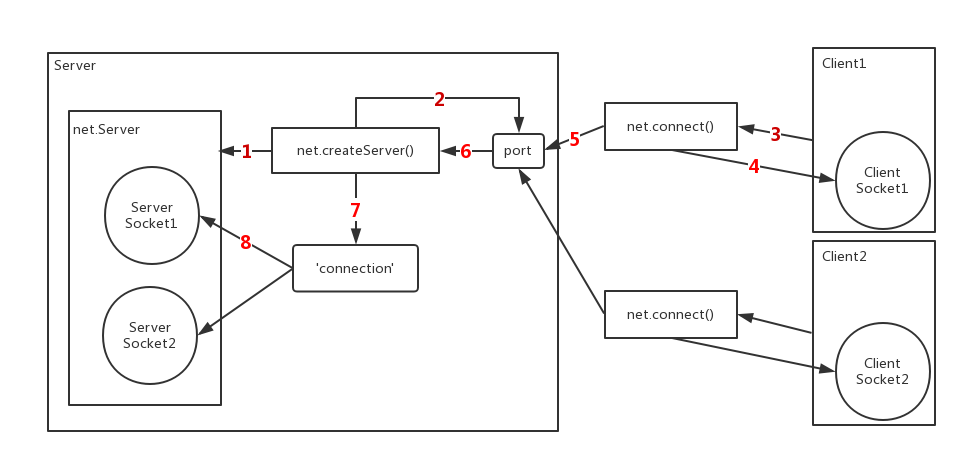
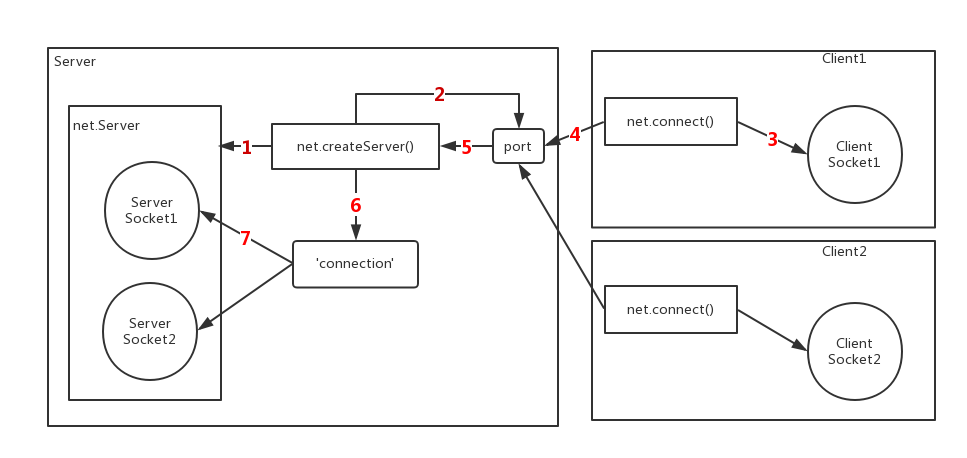
Add pic

diff --git a/nodejs_05.md b/nodejs_05.md
@@ -79,7 +79,7 @@ Node 中的 net 模块是对网络通信的一种异步包装， 它为服务端
 
 ## 1.2. TCP 服务
 
-![]()
+![](https://raw.githubusercontent.com/szouc/nodejs_ouc/master/images/CH05/net_Socket.png)
 
 ### 1.2.1. 创建 TCP 服务器端
 
